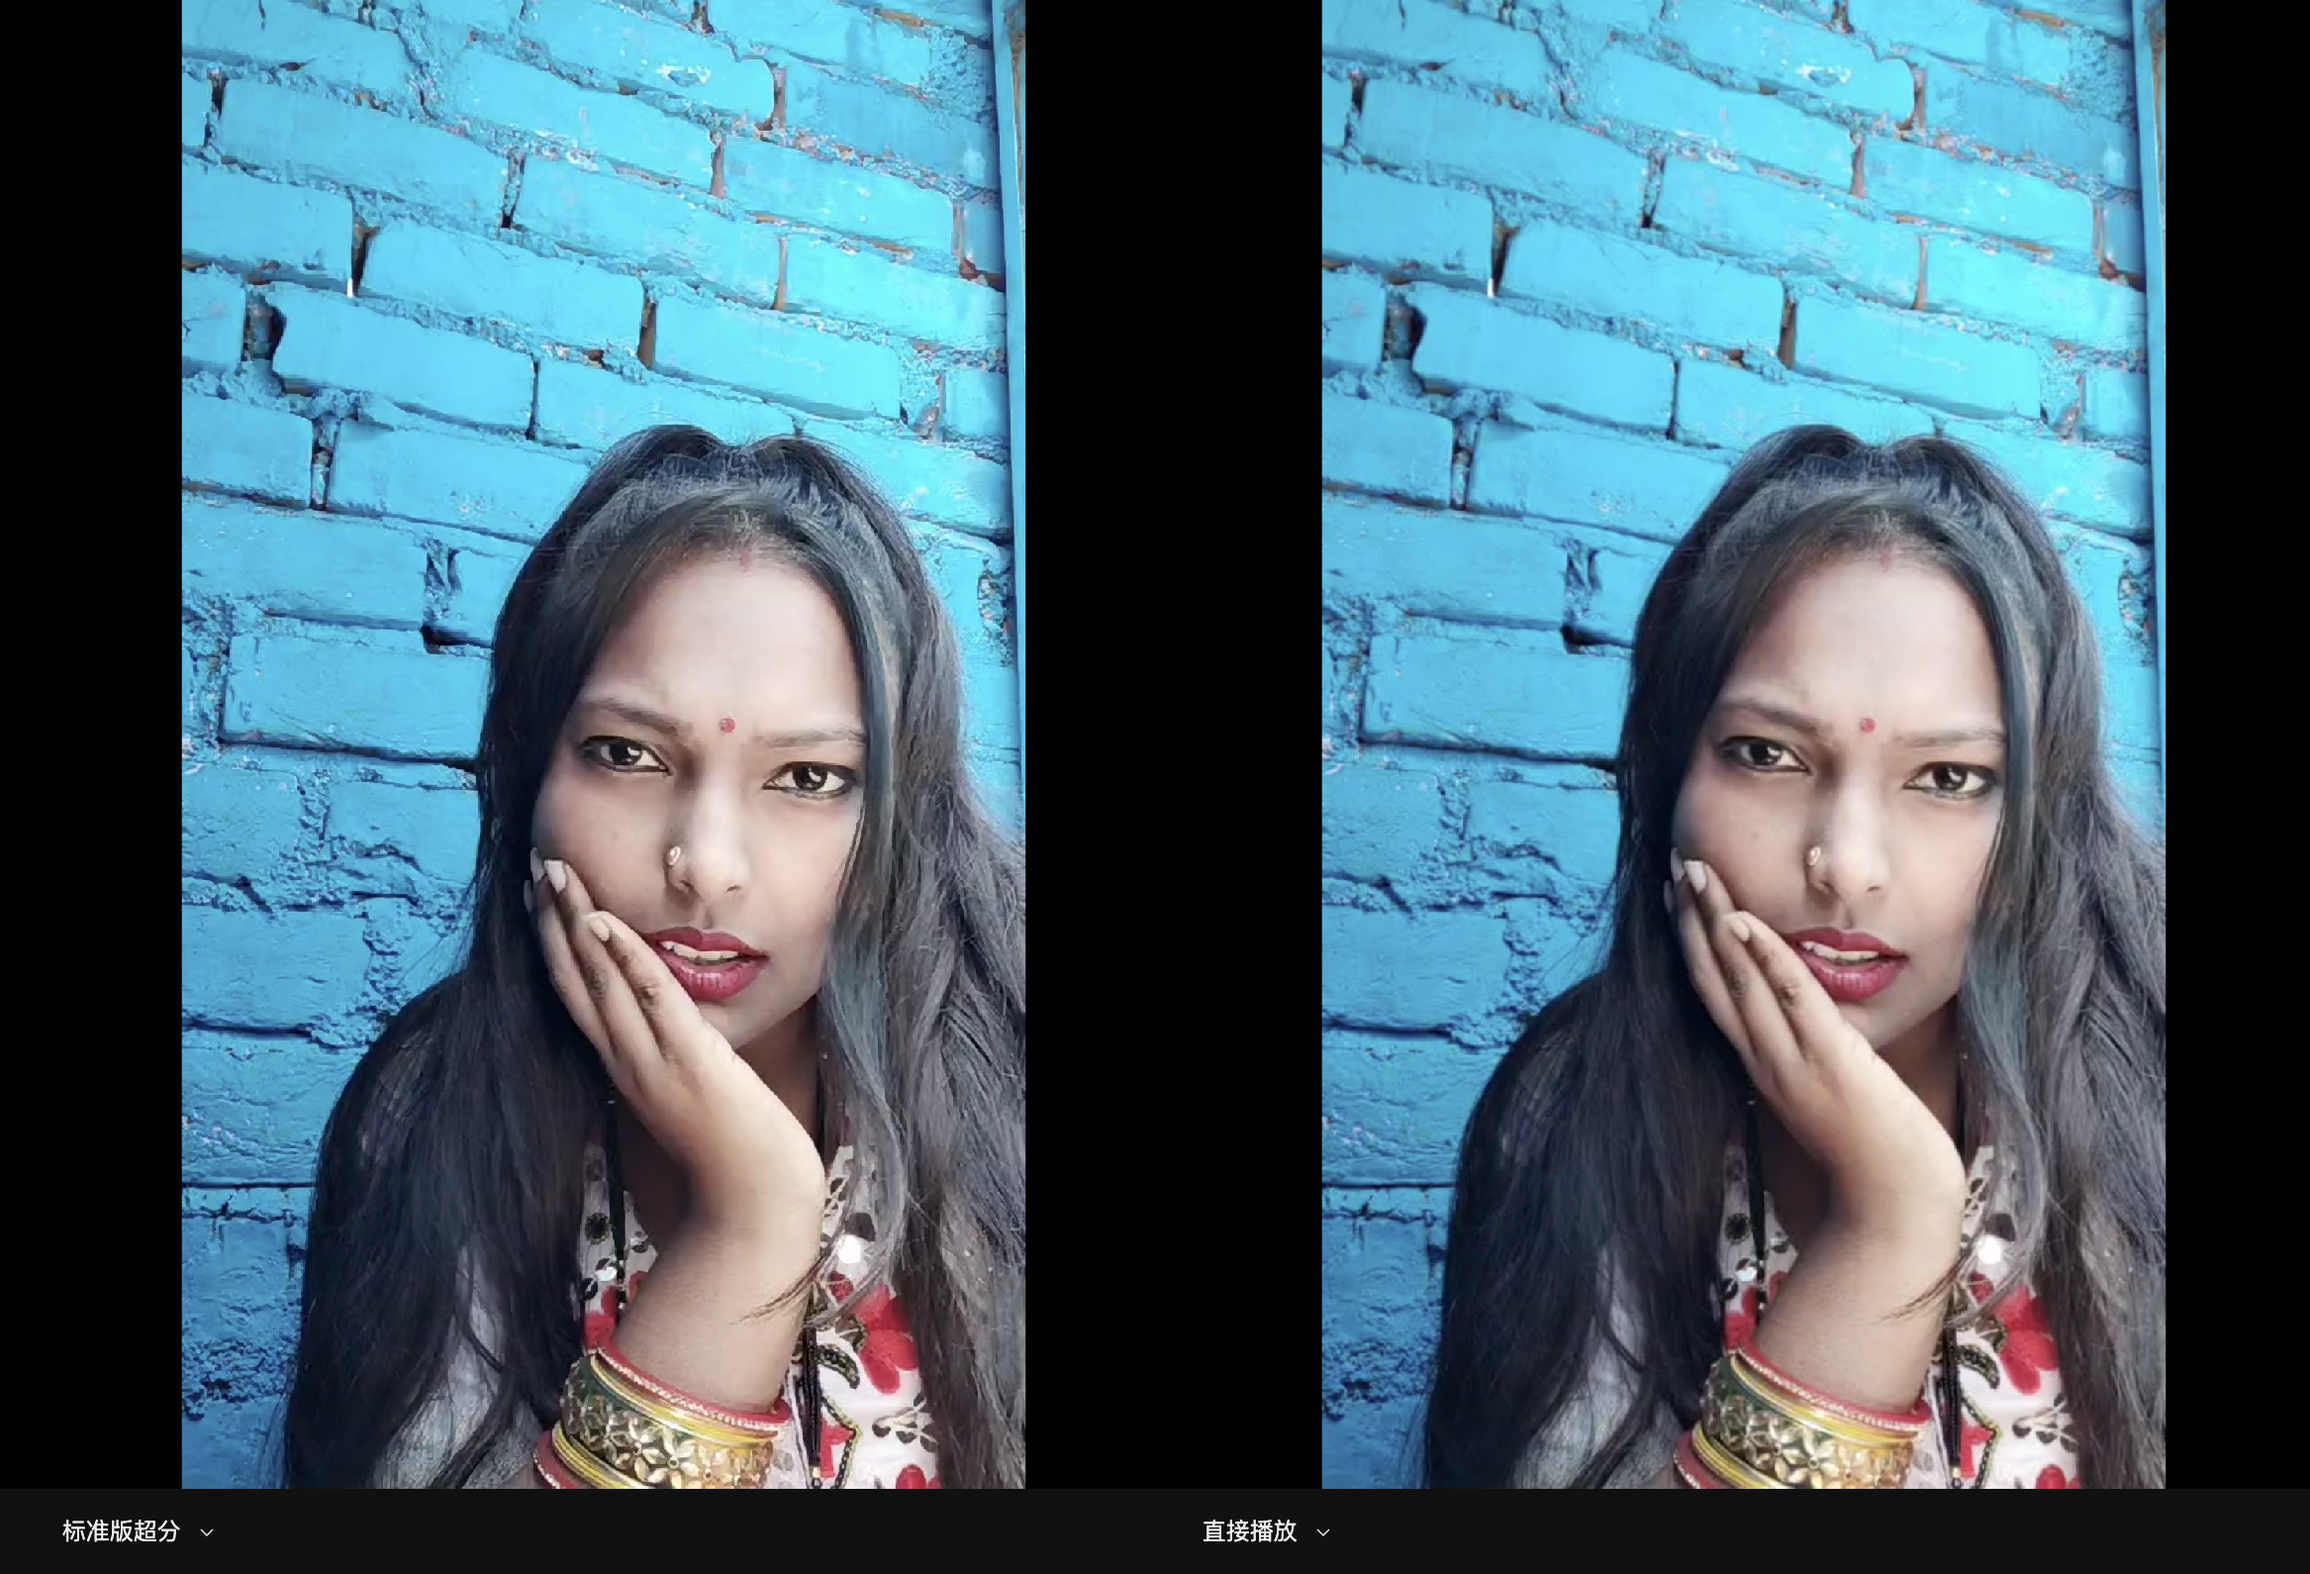
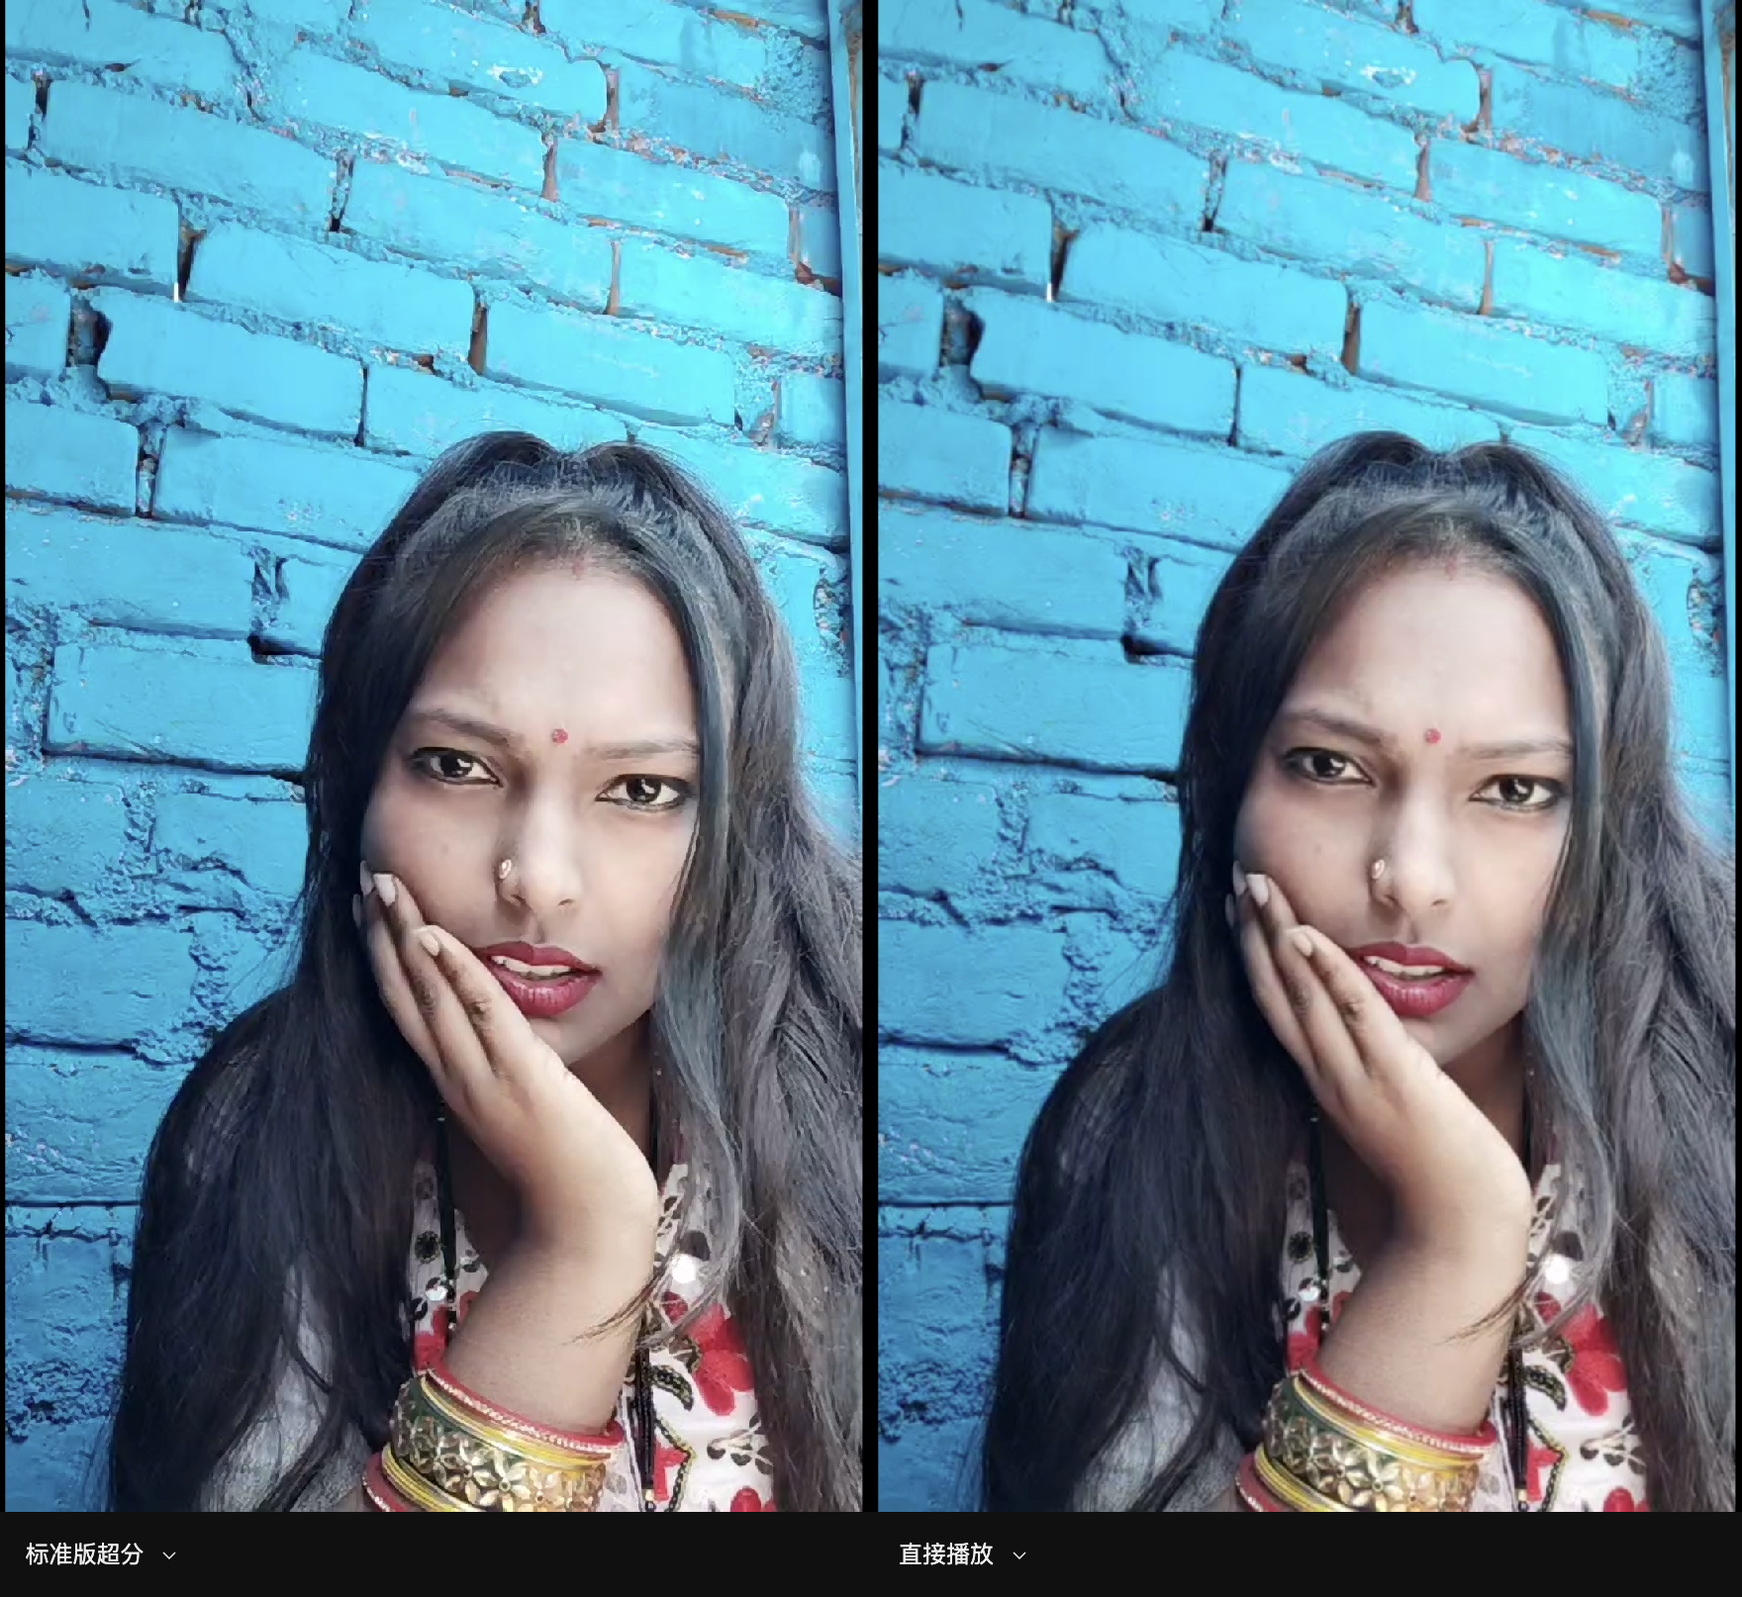
update docs

diff --git a/README.md b/README.md
@@ -22,6 +22,8 @@
 
 ## 画面效果
 ### 标准版——超分辨率
+540P -> 1080P
+
 左：标准版超分，右：直接播放
 
 可点击链接对比查看：https://cg-sdk-1258344699.cos.ap-nanjing.myqcloud.com/tsr/pro-sr-cmp/index.html
@@ -29,6 +31,8 @@
 
 ### 专业版
 #### 超分辨率
+540P -> 1080P
+
 左：专业版超分；中：标准版超分；右：直接播放
 
 可点击链接对比查看：https://cg-sdk-1258344699.cos.ap-nanjing.myqcloud.com/tsr/pro-sr-cmp/index.html
